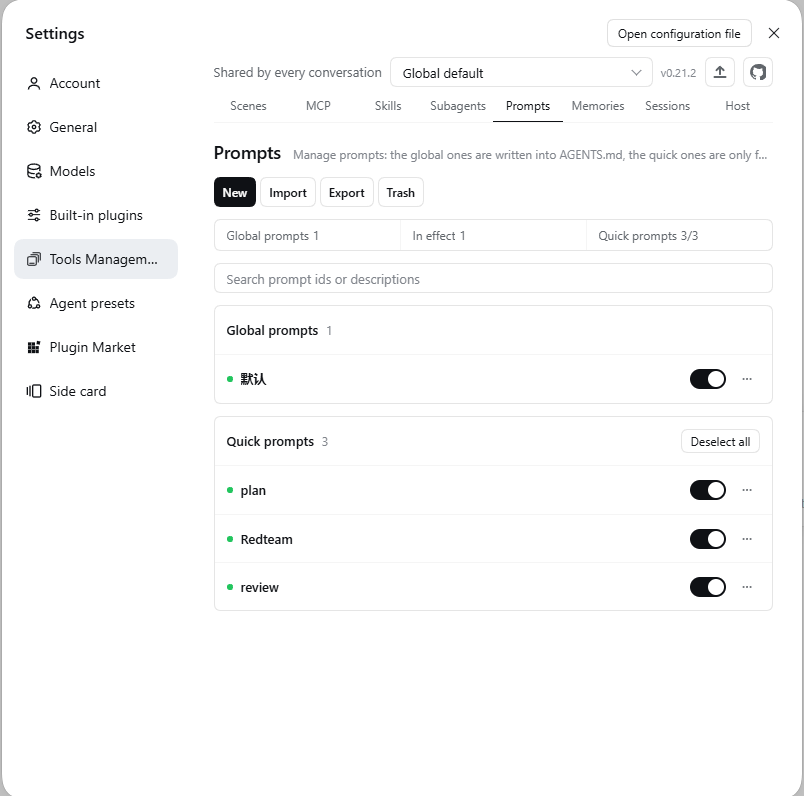
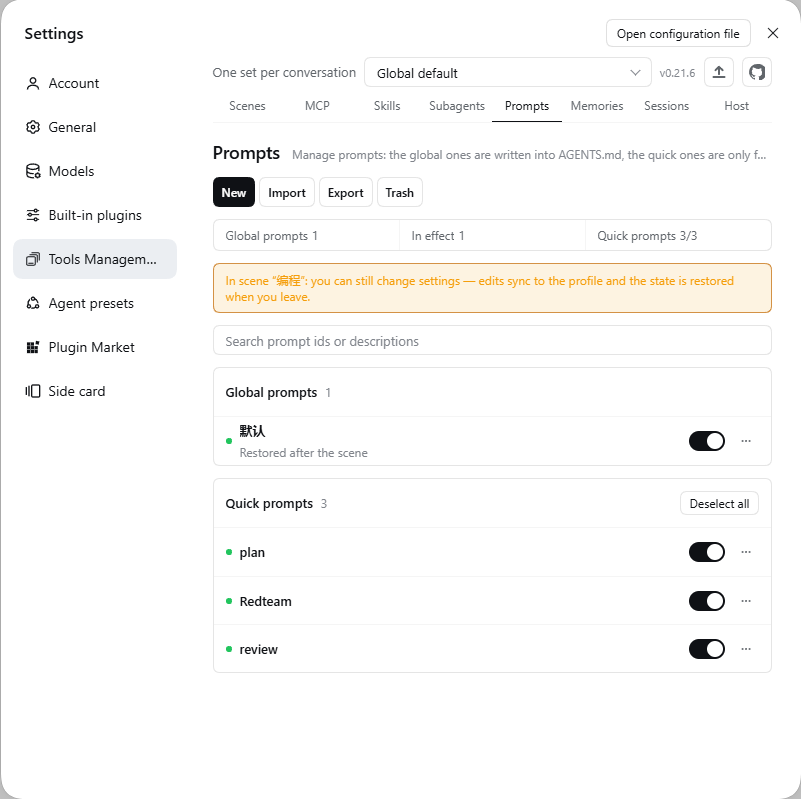
docs：0.21.6 变更记录、README 令牌边界与界面截图更新

diff --git a/docs/UPDATE.md b/docs/UPDATE.md
@@ -4,7 +4,7 @@
 
 | 版本                                        | 发布       | 主题                                                                                                                                                                                                                                                                                                    |
 | ------------------------------------------- | ---------- | ------------------------------------------------------------------------------------------------------------------------------------------------------------------------------------------------------------------------------------------------------------------------------------------------------- |
-| [0.21.6](../CHANGELOG.md#0216---2026-10-24) | 2026-10-24 | 修好「应用提示词预设」恒定失败：全局 AGENTS.md 存在时并发编辑校验误拿正文当指纹，应用必被拒；补签发 / 校验同口径回归测试 |
+| [0.21.6](../CHANGELOG.md#0216---2026-10-24) | 2026-10-24 | 修好「应用提示词预设」恒定失败（并发指纹校验误拿正文当指纹，#22）；记忆附件补根内断言、保留期清理先送系统回收站、场景冻结口径统一（回收站永久删除与被锁场景编辑纳入）且即时生效、人设名单逐条转义、预设 / 快捷词 / 人设改名可重试；适配宿主 0.2.1-rc.3 |
 | [0.21.5](../CHANGELOG.md#0215---2026-10-23) | 2026-10-23 | 十处写操作补上确认卡（MCP 停机、提示词正向应用、五域删除、开关落到机器级），恢复路径不拦；错误消息附现成候选（记忆 id、技能名、场景名、预设 id、MCP 服务器名） |
 | [0.21.4](../CHANGELOG.md#0214---2026-10-23) | 2026-10-23 | 「彻底停止」改为一次性的「统一关闭」；场景 / MCP / 技能 / 子智能体 / 提示词 / 记忆六页页头新增「全部关闭」（有临时运行时才出现，位于回收站右侧，执行后立即消失）；技能行可编辑（官方内置只读），场景 / 子智能体 / 记忆 / 快捷提示词补齐逐条「统一关闭」；统一关闭后徽章即时消失、不再触发列表重排；兼容页移除更新检查行，「保存到场景」「创建技能」文案收短 |
 | [0.21.3](../CHANGELOG.md#0213---2026-10-22) | 2026-10-22 | 修好三处注入：插件升级后旧框架文案不刷新、旧版本留下的注入消息不补发、MCP 启动 / 重连时先发「已清空」再发内容（两次注入）；另修好同步脚本，只改大小写的改名不再把文件弄丢；新增启动时修剪桌面壳鉴权 cookie（堆多了会导致应用起不来）；另加严格索引检查门禁与 op 登记表缺声明对账；请求栅栏改为按请求查找 `connection`，不再因挂载顺序永久降级；本地版本领先 registry 时不再显示指向旧版的「复制安装命令」 |

diff --git a/CHANGELOG.md b/CHANGELOG.md
@@ -15,6 +15,17 @@
 ### 修复
 
 - **修好「应用提示词预设」恒定失败**：全局 AGENTS.md 存在时，并发编辑校验误拿文件正文当指纹比对，应用必被拒；补签发 / 校验同口径回归测试（#22）。
+- **记忆附件落盘补根内断言**：场景 / 记忆目录是指向根外的链接时，附件上传拒绝写入（与同域其余写路径同口径）。
+- **保留期自动清理技能条目先送系统回收站**：失败才永久删除，与手工删除同一道保险。
+- **场景锁定 / 切换 / 建档后冻结判定即时生效**：成功操作立即刷新缓存，不再有 1 秒旧状态窗口。
+- **人设名单字段逐条转义**：`tools` / `toolsDeny` / `toolsByPreset` 里含逗号、冒号、引号或换行的名字保存与回读不再变形，也无法借名单写出额外 frontmatter 键。
+- **三处改名写入改为可重试**：提示词预设、快捷提示词、人设保存在 Windows 瞬时占用下不再直接失败。
+
+### 变更
+
+- **场景冻结口径统一**：场景回收站的永久删除、被锁场景自身记录的编辑纳入冻结；新建场景不受影响。
+- **README / README_EN 补写访问令牌与进程级边界的关系**：宿主栅栏缺席时写接口只拦远程请求，进程级边界需配置令牌。
+- **适配宿主 0.2.1-rc.3**：验证版本与安装期范围下限升至 `0.2.1-rc.3`（上界 `<0.2.2` 不变，仍只声明这一代），兼容矩阵按新基准重生成。
 
 ## [0.21.5] - 2026-10-23
 

diff --git a/README_EN.md b/README_EN.md
@@ -131,6 +131,7 @@ More than a version number:
 
 - **Only its own files**: skill sources are never touched; MCP changes go to `cordis.patch.yml`, with five backups per patch file.
 - **Token**: once set, every write and every plaintext secret requires `x-dsh-token`; browser reads and writes use cookies, but plaintext still needs the token.
+- **Process-level boundary is the token**: writes normally sit behind the host's browser auth; when the host fence is absent the route falls back to a loopback-only check, which any local process can pass — only the access token gives you a process-level boundary.
 - **Plaintext on disk**: masking happens in the UI only. MCP `env` / `headers` and the plugin `token` stay plaintext in the patch file, and backups are neither encrypted nor rotated. The token gate cannot stop disk reads — file permissions are the boundary.
 - **Deletes are recoverable**: skills / memories / personas / presets / scenes go to the recycle bin (permanent session deletion excepted), with an optional retention period (keep forever by default).
 

diff --git a/README.md b/README.md
@@ -131,6 +131,7 @@ dsh plugin --profile desktop add dsh-plugin-tool-management@latest  # 桌面版
 
 - **只写自己的文件**：不动技能源文件；MCP 只改 `cordis.patch.yml`，每份 patch 各留 5 份备份。
 - **令牌**：设置后所有写操作与明文密钥都要 `x-dsh-token`；浏览器读写走 cookie，明文查看仍要令牌。
+- **进程级边界靠令牌**：写接口默认由宿主的浏览器鉴权把关；宿主栅栏缺席时退回只查回环地址的本地判定，本机其它进程即可直连——配了访问令牌才有进程级这道门。
 - **磁盘上是明文**：打码只发生在界面。MCP 的 `env` / `headers` 与插件的 `token` 在 patch 文件里始终明文，备份也不加密、不轮转。令牌门禁管不到磁盘读取，防线是文件权限。
 - **删除可找回**：技能 / 记忆 / 人设 / 提示词 / 场景的删除都进回收站（会话永久删除除外），可设保留期自动清理（默认永久保留）。
 
